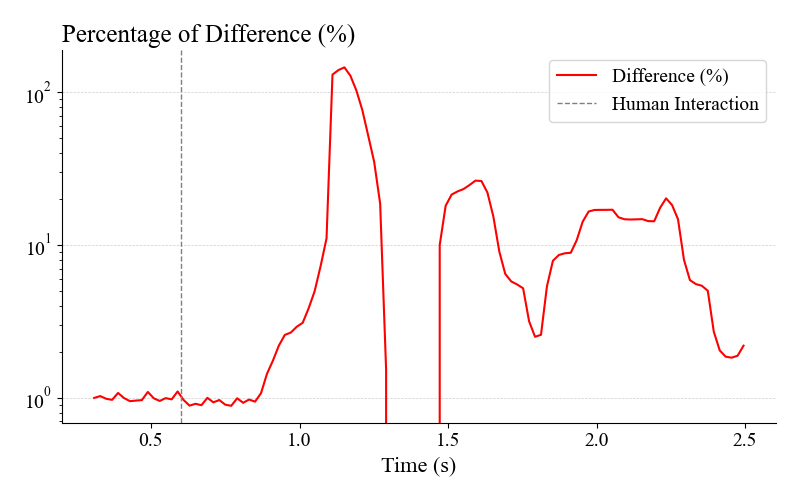
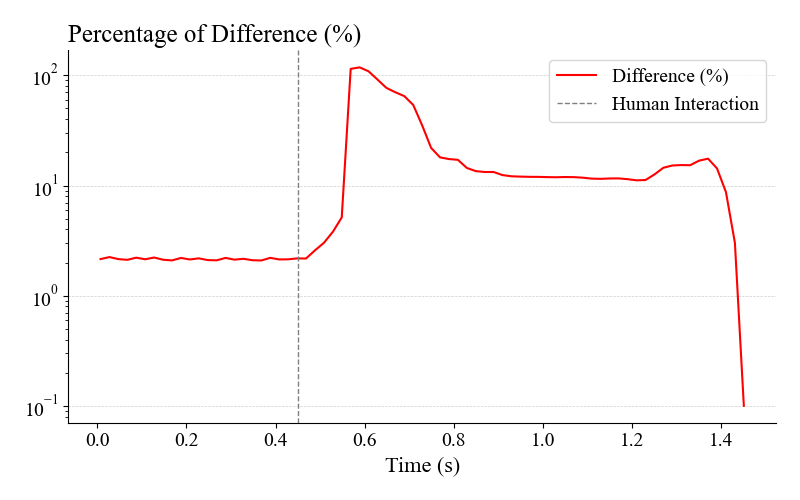
update

diff --git a/exp_2_plot.py b/exp_2_plot.py
@@ -16,19 +16,23 @@ plt.rcParams.update({
 csv_path = "logs/force_error_log_h.csv"
 df = pd.read_csv(csv_path)
 
-# Filter data after 2.8 seconds
-df = df[df["Time (s)"] > 2.8].copy()
+interaction_time = 0.45
 
-df = df[df["Time (s)"] < 5].copy()
+# Filter data after 2.8 seconds
+df = df[df["Time (s)"] > 2.6].copy()
+
+df = df[df["Time (s)"] < 4.07].copy()
 
 # Reset time to start from zero
-df["Time (s)"] = df["Time (s)"] - 2.5
+df["Time (s)"] = df["Time (s)"] - 2.6
 
 # --- Plot 1: Desired vs Rendered Force ---
 fig1, ax1 = plt.subplots(figsize=(8, 5))
 ax1.plot(df["Time (s)"], df["Desired force"], label="Commanded Friction", linestyle='--')
 
-ax1.axvline(x=0.6, color='gray', linestyle='--', linewidth=1, label="Human Interaction")
+ax1.axvline(x=interaction_time, color='gray', linestyle='--', linewidth=1, label="Human Interaction")
+
+ax1.set_ylim(0, 1)  # Set x-axis limits from 0 to 1
 
 ax1.grid(axis='y', linestyle='--', linewidth=0.5, alpha=0.6)
 ax1.plot(df["Time (s)"], df["Rendered Force"], label="Rendered Force")
@@ -48,7 +52,7 @@ plt.savefig("results/figs/force_plot.png")
 fig2, ax2 = plt.subplots(figsize=(8, 5))
 ax2.plot(df["Time (s)"], df["Percentage of Error"], label="Difference (%)", color='red')
 
-ax2.axvline(x=0.6, color='gray', linestyle='--', linewidth=1, label="Human Interaction")
+ax2.axvline(x=interaction_time, color='gray', linestyle='--', linewidth=1, label="Human Interaction")
 
 ax2.grid(axis='y', linestyle='--', linewidth=0.5, alpha=0.6)
 ax2.set_xlabel("Time (s)")

diff --git a/friction_render.py b/friction_render.py
@@ -44,7 +44,7 @@ initTime = 1.0  # seconds
 Kp, Ki, Kd = 0.8, 0, 0.02
 alpha = 0.7  # smoothing factor for low-pass filter
 pot_fluc = 0.012
-high_pass_alpha = 0.3
+high_pass_alpha = 0.4
 
 try:
     # while True:
